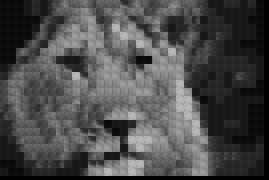
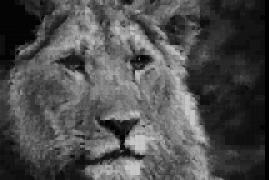
شش

diff --git a/VectorQuantization.java b/VectorQuantization.java
@@ -266,7 +266,7 @@ class VectorQuantization{
                 //2.2.1-calculate min distance
                 double minDistance=0;
                 int minBlockDistanceIndex = 0;
-                for(int i = 0 ; i < numberOfBlocksInCodeBook ; i++ ){
+                for(int i = 0 ; i < codeBookSize ; i++ ){
                     double distance = distance(pixelsArray,widthStep,hightStep,codeBook,i);
                     // double distance = distance(temp,widthStep,hightStep,codeBook,i);
                     if(i == 0){
@@ -294,6 +294,7 @@ class VectorQuantization{
             for (int hightStep = 0; hightStep < compressedMatrix[0].length; hightStep++) {
                 // Get the index of the codebook for the current block
                 int codeBookIndex = compressedMatrix[widthStep][hightStep];
+                System.out.println(codeBookIndex);
 
                 // Fill the corresponding block in the decompressed image using the codebook
                 for (int i = 0; i < blockWidth; i++) {
